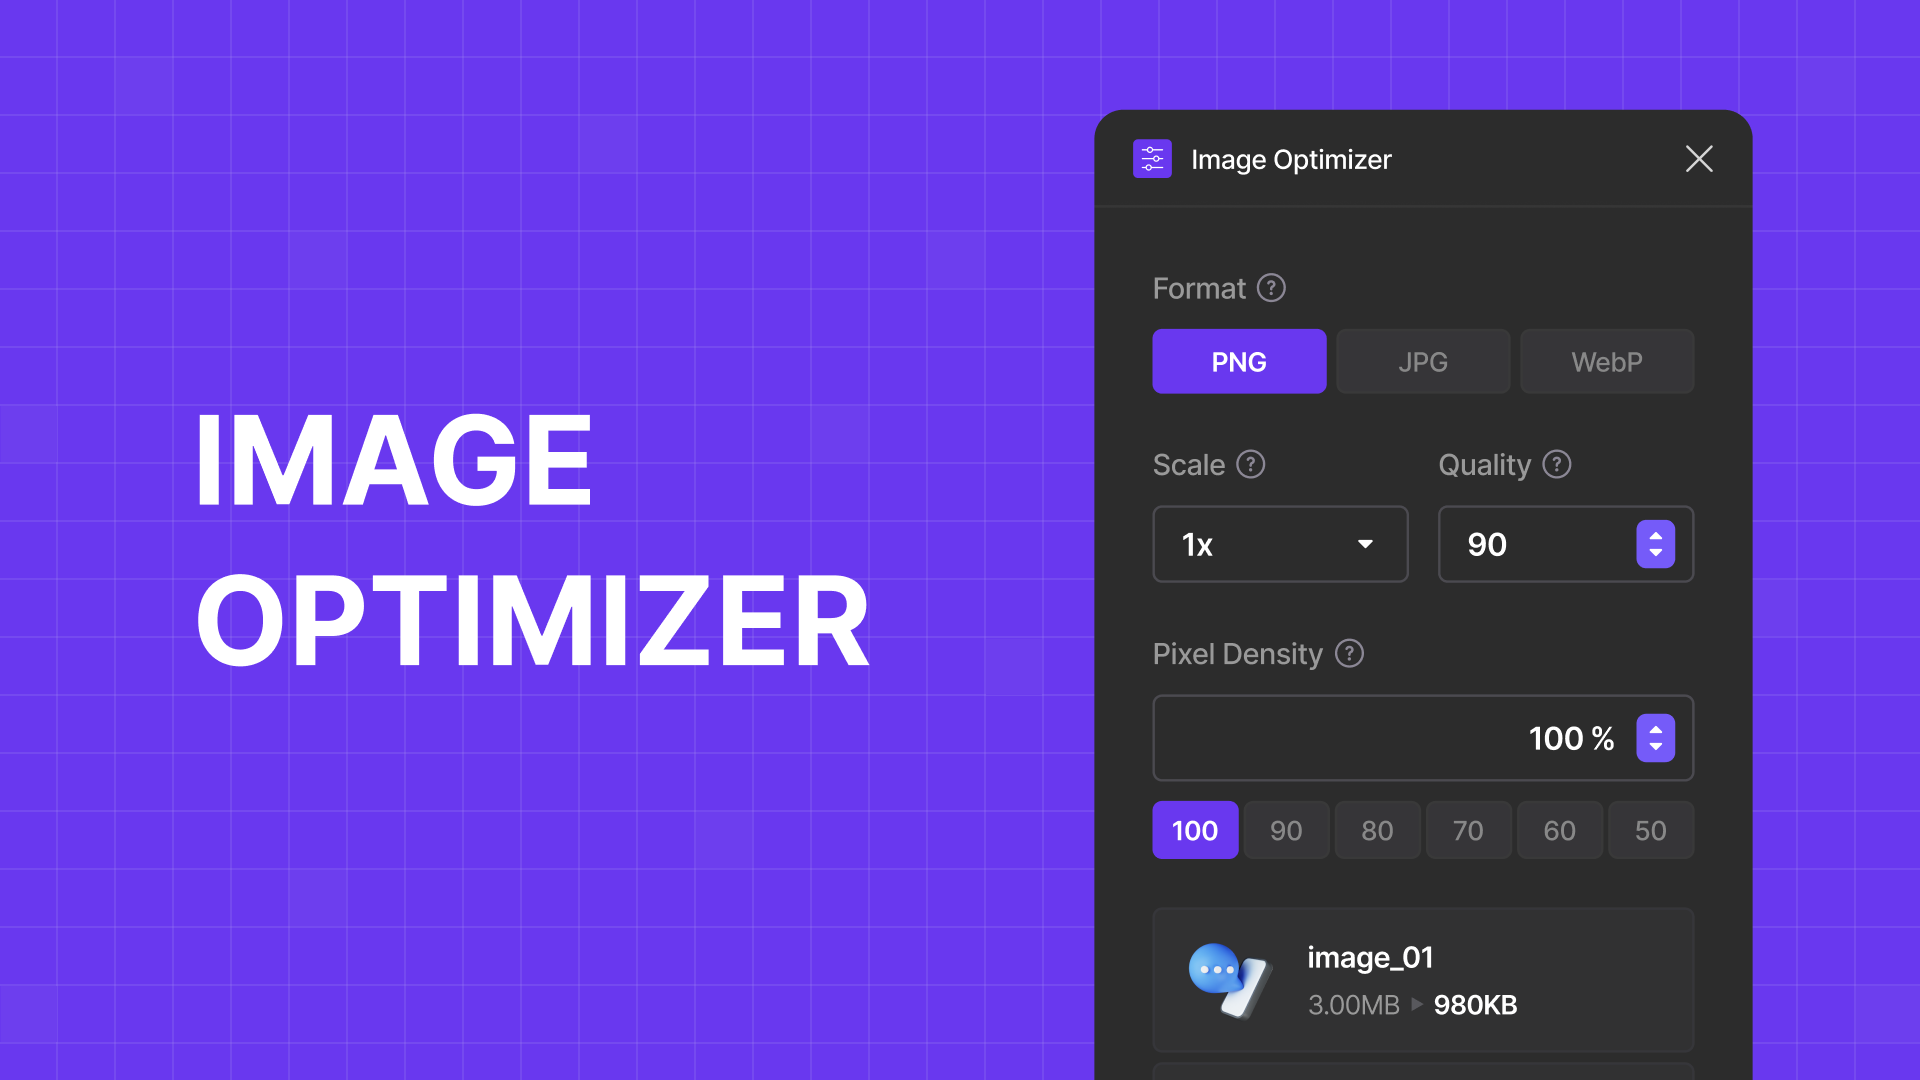
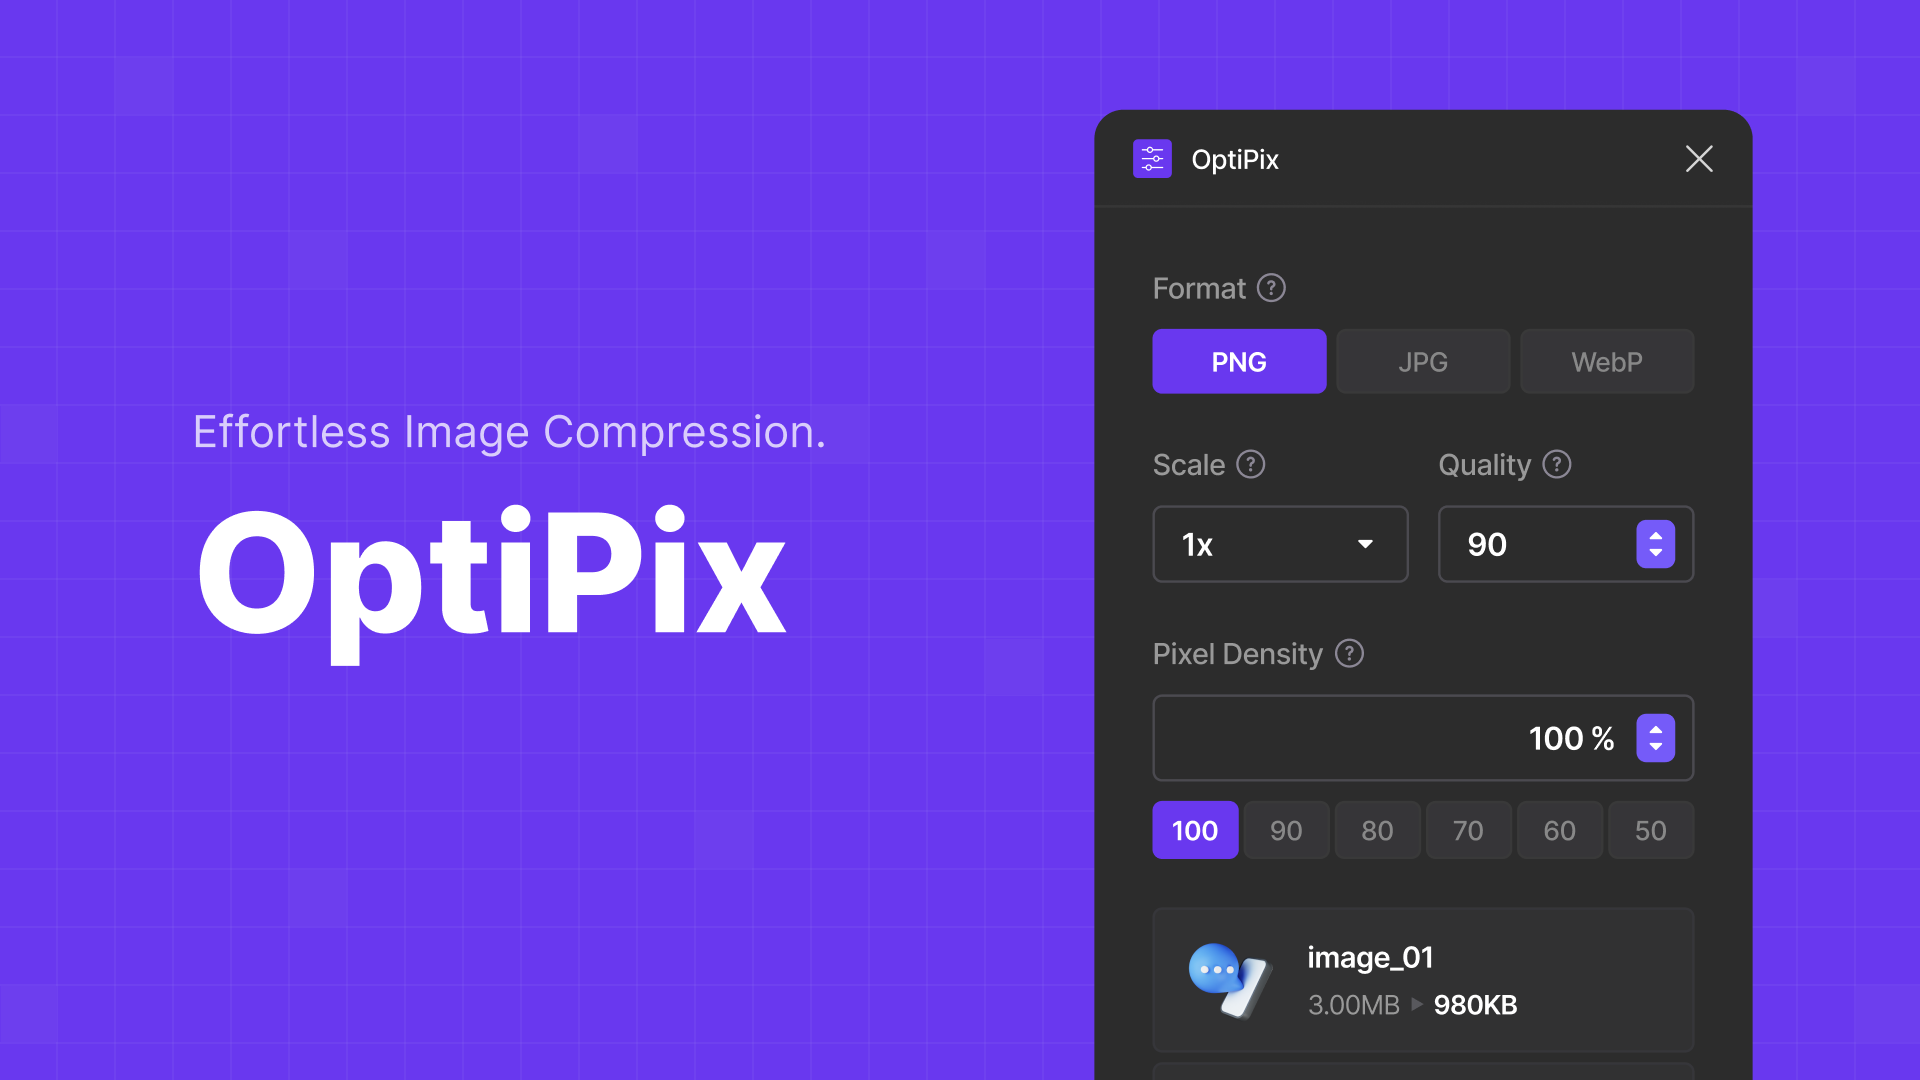
20250703_Update
Renaming the plug-in

Changed region(s): [[0.0938, 0.3667, 0.4688, 0.6417], [0.625, 0.1222, 0.7188, 0.1833]]

diff --git a/ui.html b/ui.html
@@ -2,7 +2,7 @@
 <html>
 <head>
     <meta charset="UTF-8">
-    <title>Image Optimizer</title>
+    <title>OptiPix</title>
     <link href="https://fonts.googleapis.com/css2?family=Inter:wght@400;700&family=Noto+Sans+KR:400;700&display=swap" rel="stylesheet">
     <style>
         :root {
